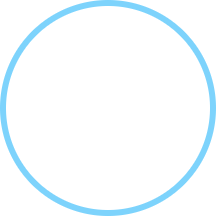
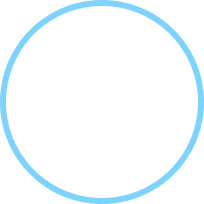
roku: a focused poster's outline sits against its picture
The ring stood 6 px off the tile, as Android TV's 3 dp, and grew with
it: on a wide tile, grown 8 %, it reached 29 px out, past the 24 px the
item keeps at its left, so the row cut the first one's, and into the
next tile. Against the picture it reaches 23 px out at most and reads
as the tile's edge.

diff --git a/docs/ROKU.md b/docs/ROKU.md
@@ -75,7 +75,7 @@ takes the hero's place, and the backdrop follows it. Up from the first row
 goes back to the hero; Back, to the hero, then to the rail; Left, to the
 rail.
 Tiles are the Android TV app's: their pictures' corners round (Roku OS
-16), focused they grow and take the accent's ring.
+16), focused they grow and take the accent's ring, against the picture.
 The hero's summary, content rating and quality come with its details
 (`GET /api/items/{id}`, which the API task reduces to what Home says), as
 do the info block's. With nothing to show, Home says why: No libraries

diff --git a/apps/roku/CHANGELOG.md b/apps/roku/CHANGELOG.md
@@ -114,6 +114,8 @@ describes how they are made.
 
 ### Fixed
 
+- A focused poster's outline sits against its picture: it stood off it,
+  and on a wide tile reached the next one and was cut at the row's left.
 - The focused poster at the right end of a row keeps its whole outline:
   the row reached the screen's edge, which cut it off.
 - In a library's Recommended and Collections rows, and on Discover, the
